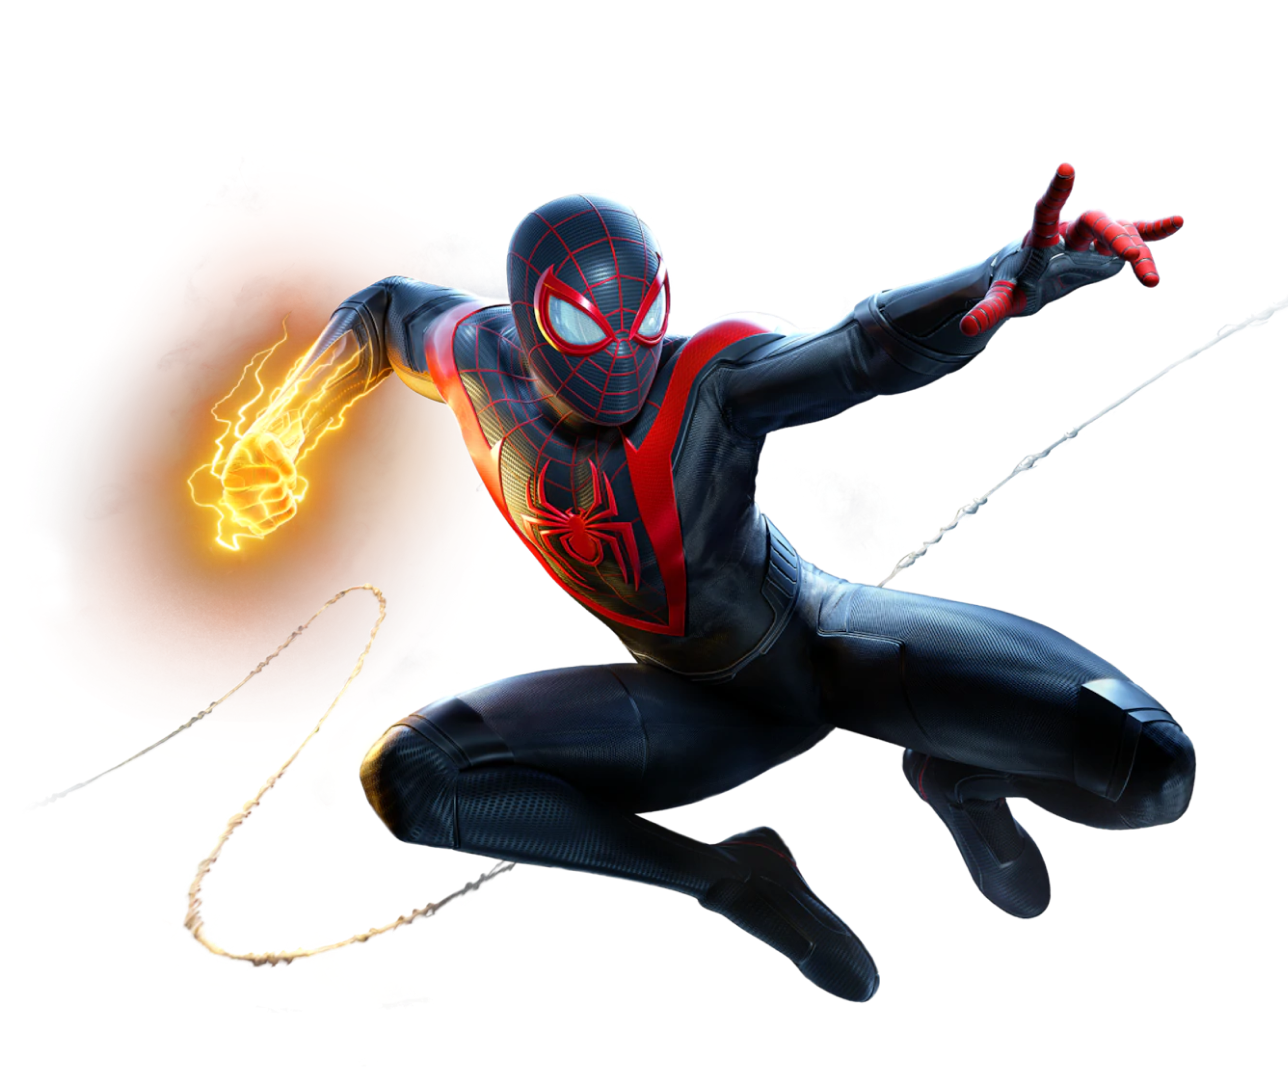
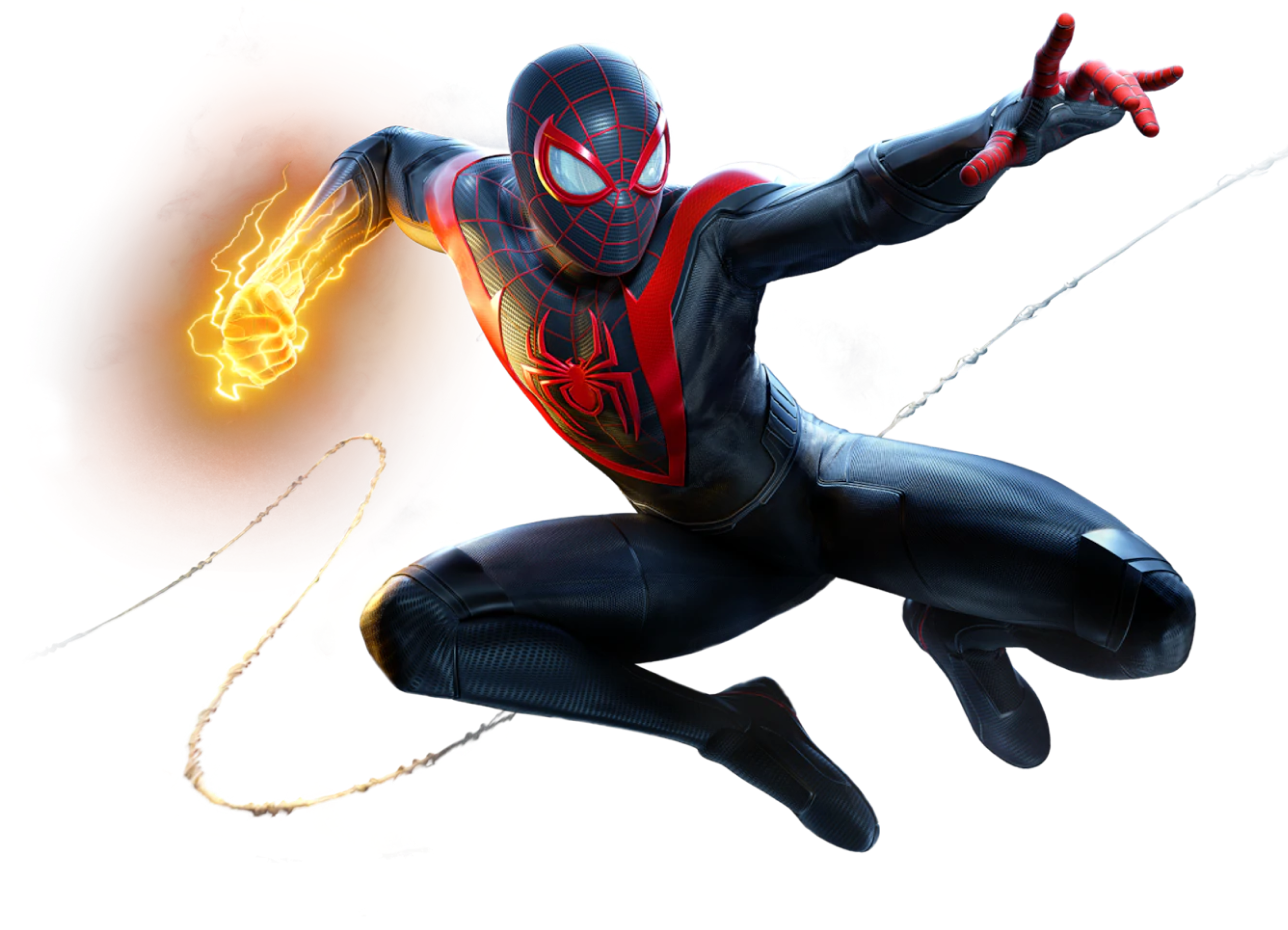
Projeto Spiderweek finalizado

diff --git a/index.html b/index.html
@@ -13,6 +13,16 @@
 </head>
 
 <body>
+
+        <!--=========== LOADING ===========-->
+
+        <section class="bg-loader">
+            <svg style="max-width: 144px;" viewBox="0 0 96 96" fill="none" xmlns="http://www.w3.org/2000/svg">
+                <g id="logo-spiderman">
+                <path class="logo-spiderman" fill-rule="evenodd" clip-rule="evenodd" d="M50.4431 44.6386L50.703 44.1559C53.3391 45.6906 59.4431 49.3762 62.7698 51.8416C62.745 53.9208 62.5247 59.401 61.8416 64.6881C61.5322 67.3243 60.2599 73.8589 57.646 78.9084C59.1435 76.9158 62.4876 71.3713 63.8836 65.1337C64.3663 63.3639 65.4653 58.0495 66 50.9505C63.1534 49.3045 56.1683 45.5223 51 43.5619L51.3713 42.7822C55.1955 43.8342 64.1287 46.5025 69.2673 48.7599C69.1559 51.4332 68.495 58.4505 66.7426 65.1337C65.8371 68.5866 63.3416 77.4752 56.2723 86C56.3697 85.8994 56.4882 85.78 56.6273 85.6398C58.1308 84.1248 62.0302 80.1956 67.5223 71.6312C70.2698 66.5446 72.0891 60.6782 74.3911 46.7178C68.9703 44.9728 61.5817 43.0421 51.594 42.0025L51.8911 41.4084C55.6039 41.2104 64.2772 41.0743 69.2673 42.1139C69.8366 38.3144 69.6312 29.4975 65.146 24.6262C66.1361 27.3366 67.9827 34.0569 66.5569 39.255C62.9307 39.2302 54.9431 39.3812 52.0025 40.1832L51.5198 39.552C53.698 38.2525 58.6708 35.5421 61.1361 35.0965C61.1442 35.0372 61.1523 34.9774 61.1605 34.9172C61.8684 29.7099 62.9799 21.5342 55.4554 11C57.2747 14.75 60.2153 23.802 58.3143 33.2772L50.9257 38.6609L50.3688 37.8812L52.6336 35.5421C52.2252 34.8738 51.0074 33.3812 49.4035 32.7574C50.1708 33.6733 51.2079 35.698 49.2178 36.4703H46.2846C45.4307 36.2475 44.198 35.1931 46.099 32.7574C45.3193 33.1163 43.604 34.1757 42.9802 35.5421L44.6881 37.5842L44.3168 38.3267L37.1881 33.3144C36.3465 29.6881 35.6584 20.1559 39.6386 11.0371C39.3184 11.6268 39.0101 12.189 38.7142 12.7287C34.6868 20.0738 32.9356 23.2677 34.1807 35.0965C35.5792 35.3936 39.3639 36.6856 43.3144 39.4777L43.0916 39.9604C39.7005 39.6386 32.0941 39.0619 28.797 39.3292C28.2277 36.6807 27.7054 30.0322 30.1708 24.6262C26.2723 30.1213 25.4926 34.1312 26.1609 42.2252C28.9703 41.6807 36.2896 40.755 43.0916 41.4084L43.3144 42.0025C38.3144 42.6337 26.8515 44.4604 21 46.7178C21.1638 47.5953 21.3229 48.4557 21.4788 49.2991C22.9129 57.0566 24.0818 63.3797 26.2723 68.3639C29.9854 75.5044 33.156 79.1728 37.0129 83.6354C37.6683 84.3937 38.3435 85.1749 39.0446 86C33.0668 77.7203 26.8738 67.3243 26.1609 48.7599C30.0965 47.1881 39.1931 43.7921 44.0941 42.7822L44.4282 43.5619C40.4183 45.2574 31.7673 49.0941 29.5396 50.8762C29.5642 51.2066 29.5884 51.5383 29.6127 51.8715C30.1759 59.5913 30.7984 68.1239 37.5965 78.9084C35.4802 74.2673 33.0891 68.9802 32.5842 51.8416C35.5173 49.8738 42.0446 45.5817 44.6881 44.1559L44.9851 44.6386C43.6485 45.4926 40.5446 47.6386 38.8218 49.3911C38.7104 50.1089 38.5545 52.7847 38.8218 57.745C40.0965 60.0594 43.6559 65.0668 47.6955 66.5817C49.7624 65.7401 54.4084 62.7946 56.4579 57.745C56.6188 56.5569 56.9035 53.2376 56.7549 49.4653C55.5173 48.3391 52.5223 45.797 50.4431 44.6386ZM40.5 49.5L43.5 47L41.5 50C41.5 55.5 43.3217 59.0567 47.8 60.8C53.0938 57.745 54 55 54 50L52 47L55.2 49.8C55.2951 52.3648 55.4229 53.7895 54.7 56.5C53.5 59.5 51.5 61.5 47.7 63.8C44 61.5 43 60 40.7 56.5C40.3164 53.5132 40.1274 51.9879 40.5 49.5Z" fill="#EDF1F7" stroke="#EDF1F7" stroke-width="0.5" stroke-linecap="round" stroke-linejoin="round"/>
+                </g>
+                </svg>
+        </section>
     <!--=========== HEADER ===========-->
     <header>
         <nav class="navbar">
@@ -46,26 +56,26 @@
     <!--=========== CONTEINER ===========-->
 
     <section class="container">
-        <div class="container-item-1">
-            <div class="px-1 border">
+        <div class="container-item-1 item-1">
+            <div class="px-1">
                 <img src="/img/spiderman-texto.png" onload="SVGInject(this)">
             </div>
-            <p class="my-2 border">
+            <p class="my-2 item-2">
                 Lorem ipsum dolor sit amet, consectetur adipiscing elit. Iaculis velit magna vitae mauris orci fames
                 posuere nibh.
                 Sit tellus amet facilisi sit odio pulvinar scelerisque quam et. Ultrices facilisis nunc massa diam, quis
                 mi imperdiet.
             </p>
-            <div class="my-1">
+            <div class="my-1 item-3">
                 <a href="" class="btn">Pre-order now</a>
                 <a href="" class="ml-2 btn-secondary">Watch the teaser</a>
             </div>
-            <div class="flex align-tems-center">
+            <div class="flex align-tems-center item-4">
                 <img src="/svg/marvel-logo.svg" class="w-auto" onload="SVGInject(this)">
-                <img src="/svg/marvel-logo.svg" class="ml-2 w-auto" onload="SVGInject(this)">
+                <img src="/svg/ps.svg" class="ml-2 w-auto" onload="SVGInject(this)">
             </div>
         </div>
-        <div class="container-item-2">
+        <div class="container-item-2 item-5">
             <div class="js-tilt">
                 <img src="/img/spider-man.png" class="spiderman" onload="SVGInject(this)">
             </div>

diff --git a/css/style.css b/css/style.css
@@ -38,7 +38,6 @@ p {
   margin: 0 auto;
   padding: 36px 16px;
   overflow: none;
-  border: 1px solid red;
   height: 90vh;
   display: -webkit-box;
   display: -ms-flexbox;
@@ -78,9 +77,9 @@ p {
 }
 
 .spiderman {
-  width: 150%;
-  -webkit-transform: translate3d(-200px, 0, 0);
-          transform: translate3d(-200px, 0, 0);
+  width: 130%;
+  -webkit-transform: translate3d(-130px, 0, 0);
+          transform: translate3d(-130px, 0, 0);
   overflow: hidden;
 }
 
@@ -215,6 +214,26 @@ p {
   background: linear-gradient(90deg, #0B0C10 24.48%, rgba(11, 12, 16, 0.8) 54.09%, #0C0C10 77.6%);
 }
 
+.bg-loader {
+  width: 100%;
+  height: 100vh;
+  position: absolute;
+  top: 0;
+  left: 0;
+  z-index: 999;
+  display: -webkit-box;
+  display: -ms-flexbox;
+  display: flex;
+  -webkit-box-pack: center;
+      -ms-flex-pack: center;
+          justify-content: center;
+  -webkit-box-align: center;
+      -ms-flex-align: center;
+          align-items: center;
+  overflow: hidden;
+  background: linear-gradient(225deg, #EA1D22 0%, #B31317 100%);
+}
+
 header {
   width: 100%;
   padding-top: 16px;
@@ -247,7 +266,6 @@ header {
 }
 
 .nav-list {
-  border: 1px solid green;
   list-style: none;
   display: -webkit-box;
   display: -ms-flexbox;
@@ -307,6 +325,7 @@ header {
   display: -webkit-box;
   display: -ms-flexbox;
   display: flex;
+  overflow: hidden;
 }
 
 .nav-social svg {
@@ -343,6 +362,46 @@ header {
     height: 48px;
     background-color: #EDF1F7;
     border-radius: 8px;
+  }
+}
+
+.logo-spiderman {
+  fill: transparent;
+  -webkit-animation: logo-spiderman 12s ease infinite alternate;
+          animation: logo-spiderman 12s ease infinite alternate;
+}
+
+@-webkit-keyframes logo-spiderman {
+  0% {
+    stroke-width: 0;
+    stroke-dasharray: 1 100;
+    fill: transparent;
+  }
+  25% {
+    stroke-width: 1;
+    stroke-dasharray: 100 1;
+    fill: transparent;
+  }
+  60%, 100% {
+    stroke-width: 0.3;
+    fill: #E5E9EF;
+  }
+}
+
+@keyframes logo-spiderman {
+  0% {
+    stroke-width: 0;
+    stroke-dasharray: 1 100;
+    fill: transparent;
+  }
+  25% {
+    stroke-width: 1;
+    stroke-dasharray: 100 1;
+    fill: transparent;
+  }
+  60%, 100% {
+    stroke-width: 0.3;
+    fill: #E5E9EF;
   }
 }
 

diff --git a/js/app.js b/js/app.js
@@ -1,0 +1,45 @@
+document.addEventListener('DOMContentLoaded', () => {
+
+    let tl = new TimelineMax();
+
+    tl.fromTo('.bg-loader', 1,
+    {width: '100%'},
+    {width: '0%', delay: 5, ease: Expo.easeInOut})
+
+    tl.fromTo('.bg-video', 2,
+    {width: '0%', opacity: 0},
+    {width: '100%', opacity:1, ease: Expo.easeInOut}, '-=1')
+
+    tl.fromTo('.logo', 0.7,
+    {y: -50, opacity: 0},
+    {y: 0, opacity:1, ease: Expo.easeInOut}, '-=0.5')
+
+    tl.fromTo('.nav-list', 0.7,
+    {y: -50, opacity: 0},
+    {y: 0, opacity:1, ease: Expo.easeInOut}, '-=0.5')
+
+    tl.fromTo('.nav-social', 0.7,
+    {y: -50, opacity: 0},
+    {y: 0, opacity:1, ease: Expo.easeInOut}, '-=0.5')
+
+    tl.fromTo('.item-1', 0.7,
+    {y: -50, opacity: 0},
+    {y: 0, opacity:1, ease: Expo.easeInOut}, '-=0.5')
+
+    tl.fromTo('.item-2', 0.7,
+    {y: -50, opacity: 0},
+    {y: 0, opacity:1, ease: Expo.easeInOut}, '-=0.5')
+
+    tl.fromTo('.item-3', 0.7,
+    {y: -50, opacity: 0},
+    {y: 0, opacity:1, ease: Expo.easeInOut}, '-=0.5')
+
+    tl.fromTo('.item-4', 0.7,
+    {y: -50, opacity: 0},
+    {y: 0, opacity:1, ease: Expo.easeInOut}, '-=0.5')
+
+    tl.fromTo('.item-5', 0.7,
+    {y: -50, opacity: 0},
+    {y: 0, opacity:1, ease: Expo.easeInOut}, '-=0.5')
+
+})

diff --git a/css/partials/_layout.scss b/css/partials/_layout.scss
@@ -6,7 +6,6 @@
     margin: 0 auto;
     padding: 36px 16px;
     overflow: none;
-    border: 1px solid red;
 
     height: 90vh;
 
@@ -31,8 +30,9 @@
 
 
 .spiderman {
-    width: 150%;
-    transform: translate3d(-200px,0,0);
+    width: 130%;
+    
+    transform: translate3d(-130px,0,0);
     overflow: hidden;
 
     @include responsive(){
@@ -155,4 +155,22 @@
             display: block;
             background: linear-gradient(90deg, #0B0C10 24.48%, rgba(11, 12, 16, 0.8) 54.09%, #0C0C10 77.6%);
         }
+}
+
+.bg-loader {
+    width: 100%;
+    height: 100vh;
+    position: absolute;
+    top: 0;
+    left: 0;
+
+    z-index: 999;
+
+    display: flex;
+    justify-content: center;
+    align-items: center;
+
+    overflow: hidden;
+
+    background: linear-gradient(225deg, $red 0%, $red-dark 100%);
 }

diff --git a/css/partials/_animations.scss b/css/partials/_animations.scss
@@ -1,0 +1,23 @@
+.logo-spiderman {
+    fill: transparent;
+
+    animation: logo-spiderman 12s ease infinite alternate;
+}
+
+
+@keyframes logo-spiderman{
+    0%{
+        stroke-width: 0;
+        stroke-dasharray: 1 100;
+        fill: transparent;
+    }
+    25%{
+        stroke-width: 1;
+        stroke-dasharray: 100 1;
+        fill: transparent;
+    }
+    60%,100%{
+        stroke-width: 0.3;
+        fill: $white-dark;
+    }
+}

diff --git a/css/partials/_menu.scss b/css/partials/_menu.scss
@@ -19,7 +19,6 @@ header {
 }
 
 .nav-list {
-    border: 1px solid green;
     list-style: none;
     display: flex;
 
@@ -73,6 +72,8 @@ header {
 
 .nav-social {
     display: flex;
+    
+    overflow: hidden;
 
     svg{
         cursor: pointer;
